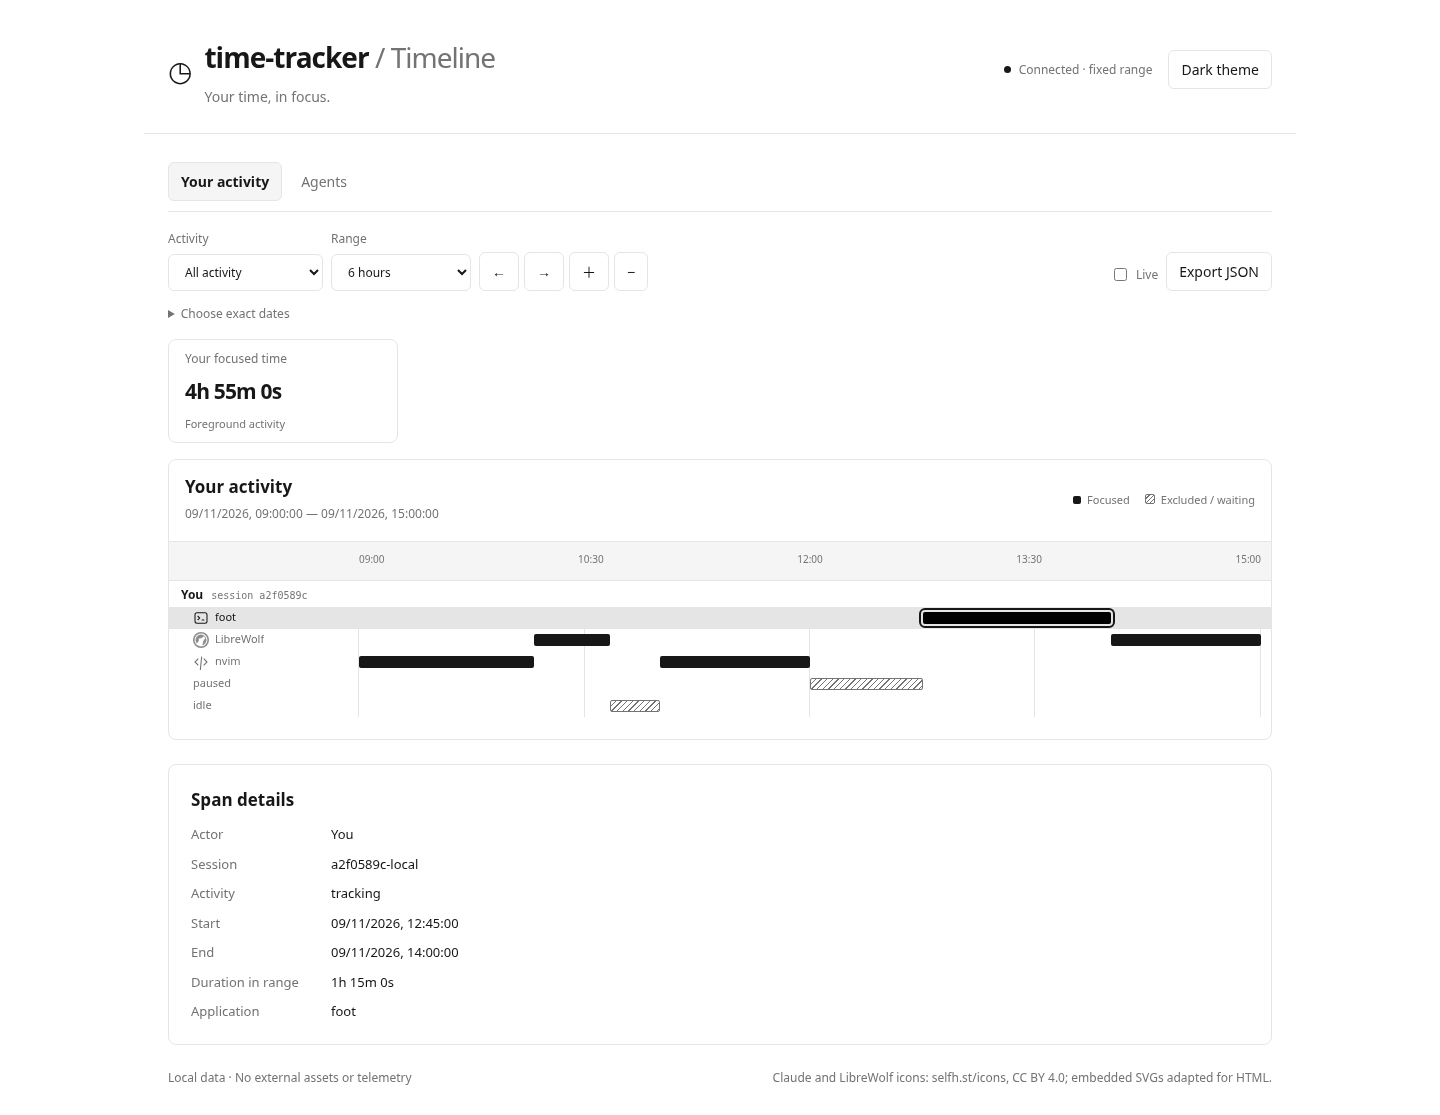
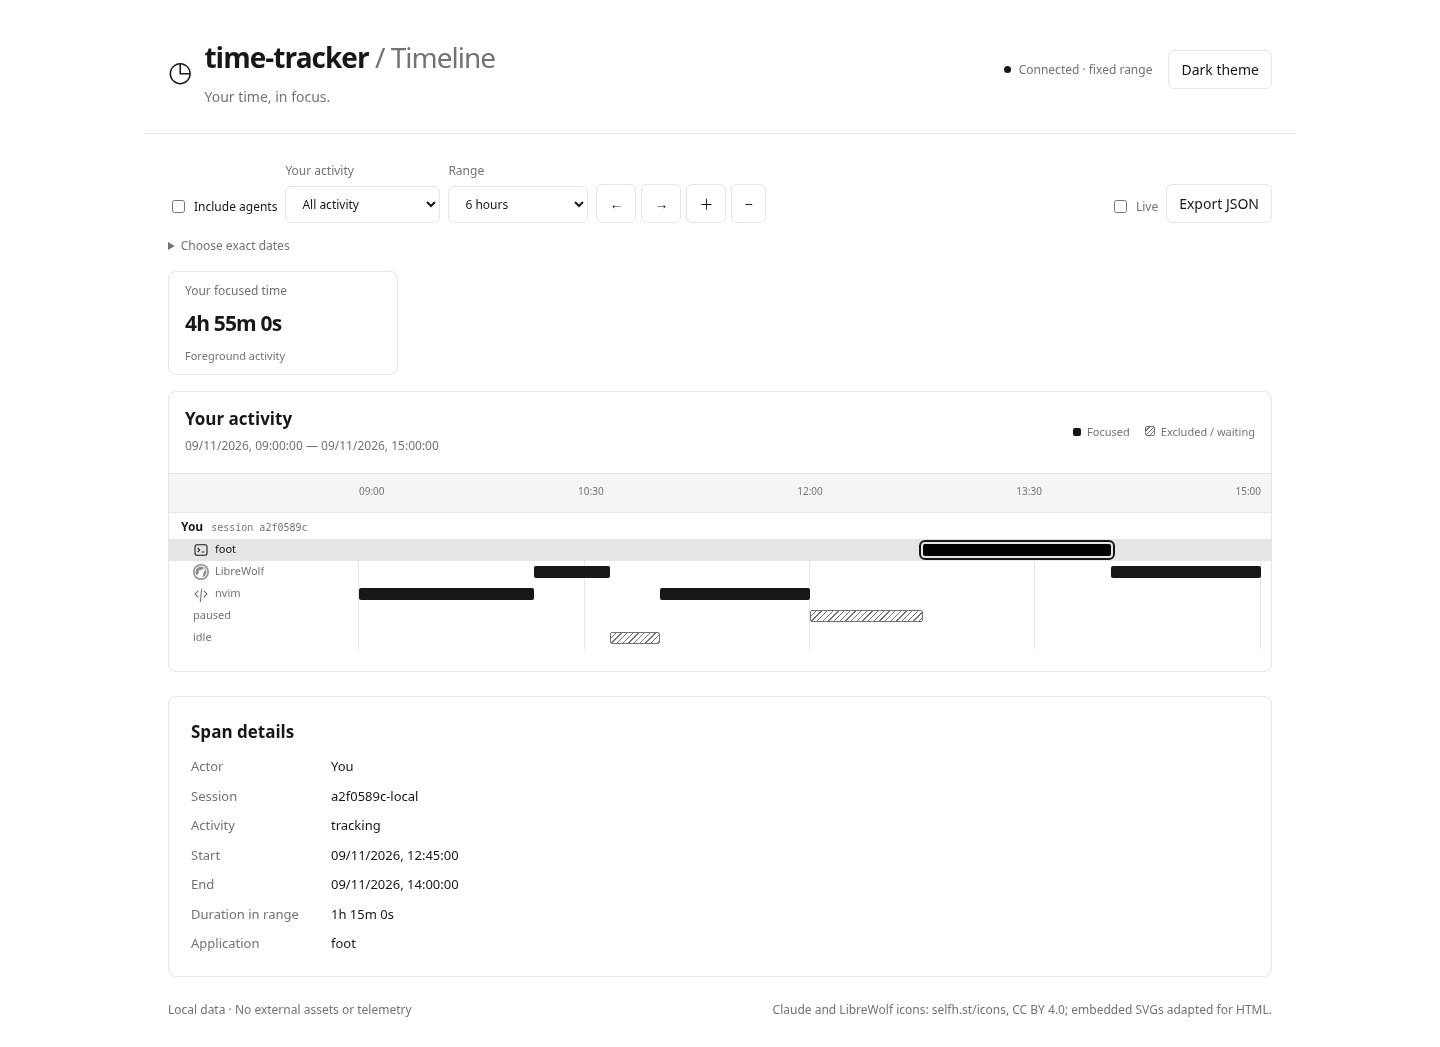
feat: optionally include agents alongside personal focus

diff --git a/poc/timeline-web/app.js b/poc/timeline-web/app.js
@@ -1,6 +1,6 @@
 'use strict'
 const $ = id => document.getElementById(id)
-const state = { duration: 86400000, end: Date.now(), data: null, selected: null, request: 0, view: 'person' }
+const state = { duration: 86400000, end: Date.now(), data: null, selected: null, request: 0 }
 const processIcons = new Map()
 // Only the server's fixed, reviewed icon catalog is parsed as markup. Activity
 // labels remain text and never enter SVG, HTML, URLs, or filesystem paths.
@@ -67,7 +67,7 @@ function render(data) {
     if (!lanes.has(span.actor)) lanes.set(span.actor, [])
     lanes.get(span.actor).push(span)
   }
-  for (const [, spans] of [...lanes].sort(([a], [b]) => a.localeCompare(b))) {
+  for (const [, spans] of [...lanes].sort(([a], [b]) => Number(!a.startsWith('human:')) - Number(!b.startsWith('human:')) || a.localeCompare(b))) {
     const first = spans[0], lane = element('div', undefined, 'lane')
     const label = element('div', undefined, 'lane-label')
     if (first.agent !== 'human') label.append(processIcon(first.agent))
@@ -111,7 +111,7 @@ function render(data) {
 async function refresh() {
   if ($('live').checked) state.end = Date.now()
   const sequence = ++state.request
-  const params = new URLSearchParams({ from: Math.round(state.end - state.duration), to: Math.round(state.end), agent: state.view === 'person' ? 'human' : $('agent').value, status: $('status').value })
+  const params = new URLSearchParams({ from: Math.round(state.end - state.duration), to: Math.round(state.end), agent: 'human', includeAgents: $('include-agents').checked ? $('agent').value : '', status: $('status').value })
   try {
     const response = await fetch(`/api/timeline?${params}`)
     if (!response.ok) throw new Error('Timeline request failed')
@@ -129,32 +129,19 @@ async function refresh() {
     $('notice').textContent = 'Could not load the timeline. Check that the local collector is running. Displayed data may be stale.'
   }
 }
-function switchView(view) {
-  state.view = view
-  state.selected = null
+function updateAgentVisibility() {
+  const included = $('include-agents').checked
+  $('agent-filter').hidden = !included
+  $('agent-metric').hidden = !included
+  $('waiting-metric').hidden = !included
+  $('agent-note').hidden = !included
+  $('trace-title').textContent = included ? 'Your activity alongside agents' : 'Your activity'
+  $('legend-active').textContent = included ? 'Focused / working' : 'Focused'
+  if (!included && state.data) render({ ...state.data, spans: state.data.spans.filter(span => span.agent === 'human') })
   state.data = null
-  $('timeline').replaceChildren()
-  inspect(null)
-  const personal = view === 'person'
-  $('view-person').setAttribute('aria-pressed', String(personal))
-  $('view-agents').setAttribute('aria-pressed', String(!personal))
-  $('agent-filter').hidden = personal
-  $('human-metric').hidden = !personal
-  $('agent-metric').hidden = personal
-  $('waiting-metric').hidden = personal
-  $('agent-note').hidden = personal
-  $('trace-title').textContent = personal ? 'Your activity' : 'Agent activity'
-  $('legend-active').textContent = personal ? 'Focused' : 'Working'
-  $('empty-title').textContent = personal ? 'No personal activity in this range' : 'No agent activity in this range'
-  $('empty-help').textContent = personal ? 'Start the focus tracker with --timeline to record your activity.' : 'Connect Claude, Pi or Kiro using the integration guide to record agent tasks.'
-  const filters = personal
-    ? [['', 'All activity'], ['tracking', 'Focused'], ['paused', 'Paused'], ['idle', 'Idle'], ['locked', 'Locked'], ['waiting', 'Waiting'], ['activity-unavailable', 'Activity unavailable'], ['IPC unavailable', 'IPC unavailable'], ['no focus', 'No focus']]
-    : [['', 'All activity'], ['working', 'Working'], ['waiting', 'Waiting'], ['unknown', 'Unknown / interrupted']]
-  $('status').replaceChildren(...filters.map(([value, text]) => { const option = element('option', text); option.value = value; return option }))
   void refresh()
 }
-$('view-person').onclick = () => switchView('person')
-$('view-agents').onclick = () => switchView('agents')
+$('include-agents').onchange = updateAgentVisibility
 for (const id of ['agent', 'status', 'live']) $(id).onchange = refresh
 $('range').onchange = () => { state.duration = Number($('range').value); void refresh() }
 $('previous').onclick = () => { $('live').checked = false; state.end = Math.max(state.duration, state.end - state.duration); void refresh() }
@@ -173,5 +160,5 @@ $('export').onclick = () => {
   const url = URL.createObjectURL(blob), link = element('a')
   link.href = url; link.download = 'focus-timeline.json'; link.click(); setTimeout(() => URL.revokeObjectURL(url), 1000)
 }
-switchView('person')
+updateAgentVisibility()
 setInterval(() => { if (!document.hidden) void refresh() }, 5000)

diff --git a/poc/timeline-web/index.html b/poc/timeline-web/index.html
@@ -4,10 +4,11 @@
 <body>
 <header><div class="brand"><span class="mark" aria-hidden="true">◷</span><div><h1>time-tracker <span>/ Timeline</span></h1><p>Your time, in focus.</p></div></div><div class="header-tools"><div class="connection"><span id="dot"></span><span id="connection" role="status">Connecting</span></div><button id="theme-toggle" type="button" aria-pressed="false">Dark theme</button></div></header>
 <main>
-<nav class="view-switch" aria-label="Timeline view"><button id="view-person" type="button" aria-pressed="true">Your activity</button><button id="view-agents" type="button" aria-pressed="false">Agents</button></nav>
+
 <section class="toolbar" aria-label="Timeline controls">
+<label class="include-agents"><input id="include-agents" type="checkbox"> Include agents</label>
 <label id="agent-filter" hidden>Agent<select id="agent"><option value="agents">All agents</option><option>claude</option><option>pi</option><option>kiro-cli</option></select></label>
-<label>Activity<select id="status"><option value="">All activity</option><option value="working">Agent working</option><option value="waiting">Waiting</option><option value="tracking">Your focus</option><option value="paused">Paused</option><option value="idle">Idle</option><option value="locked">Locked</option><option value="unknown">Unknown / interrupted</option><option value="activity-unavailable">Activity unavailable</option><option value="IPC unavailable">IPC unavailable</option><option value="no focus">No focus</option></select></label>
+<label>Your activity<select id="status"><option value="">All activity</option><option value="tracking">Focused</option><option value="paused">Paused</option><option value="idle">Idle</option><option value="locked">Locked</option><option value="waiting">Waiting</option><option value="activity-unavailable">Activity unavailable</option><option value="IPC unavailable">IPC unavailable</option><option value="no focus">No focus</option></select></label>
 <label>Range<select id="range"><option value="900000">15 minutes</option><option value="3600000">1 hour</option><option value="21600000">6 hours</option><option value="86400000" selected>24 hours</option></select></label>
 <div class="navigation"><button id="previous" aria-label="Previous time range">←</button><button id="next" aria-label="Next time range">→</button><button id="zoom-in" aria-label="Zoom in">＋</button><button id="zoom-out" aria-label="Zoom out">−</button></div>
 <label class="live"><input type="checkbox" id="live" checked> Live</label><button id="export">Export JSON</button>

diff --git a/poc/timeline-web/style.css b/poc/timeline-web/style.css
@@ -49,9 +49,6 @@ p { margin: 4px 0; color: var(--muted); }
 #dot { width: 7px; height: 7px; border-radius: 50%; background: var(--waiting); }
 #dot.connected { background: var(--human); }
 main { max-width: 1152px; margin: auto; padding: 28px 24px; }
-.view-switch { display: flex; gap: 6px; margin-bottom: 18px; border-bottom: 1px solid var(--line); padding-bottom: 10px; }
-.view-switch button { border-color: transparent; color: var(--muted); }
-.view-switch button[aria-pressed=true] { color: var(--text); background: var(--soft); border-color: var(--line); font-weight: 600; }
 .toolbar { display: flex; align-items: end; gap: 8px; flex-wrap: wrap; }
 label { display: flex; flex-direction: column; gap: 6px; font-size: 12px; color: var(--muted); }
 button,select,input { font: inherit; color: var(--text); background: var(--panel); border: 1px solid var(--line); border-radius: 6px; padding: 8px 12px; }
@@ -60,6 +57,8 @@ button:hover { background: var(--soft); }
 :focus-visible { outline: 2px solid var(--accent); outline-offset: 3px; }
 select { min-width: 140px; }
 .navigation { display: flex; gap: 5px; }
+.include-agents { flex-direction: row; align-items: center; padding: 7px 0; color: var(--text); }
+.include-agents input { accent-color: var(--accent); }
 .live { flex-direction: row; align-items: center; padding: 7px 0; margin-left: auto; }
 .live input { accent-color: var(--accent); }
 .custom { margin: 14px 0; color: var(--muted); font-size: 12px; }
@@ -128,7 +127,7 @@ code { color: var(--accent); }
 }
 @media print {
   :root,:root[data-theme=dark] { --bg:#fff; --panel:#fff; --text:#111; --muted:#555; --line:#ddd; --soft:#f5f5f5; }
-  .toolbar,.custom,.header-tools,.view-switch { display: none !important; }
+  .toolbar,.custom,.header-tools { display: none !important; }
   .panel,.metrics article { break-inside: avoid; }
   .span { print-color-adjust: exact; }
 }
